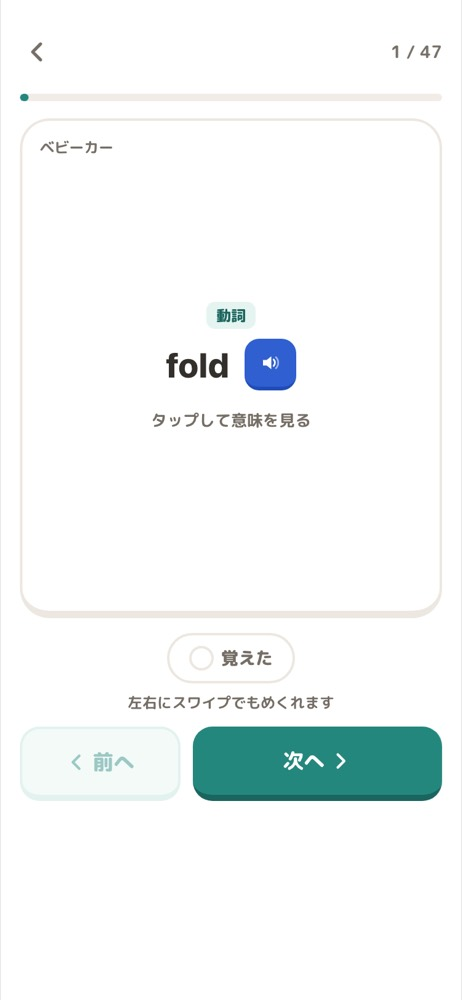
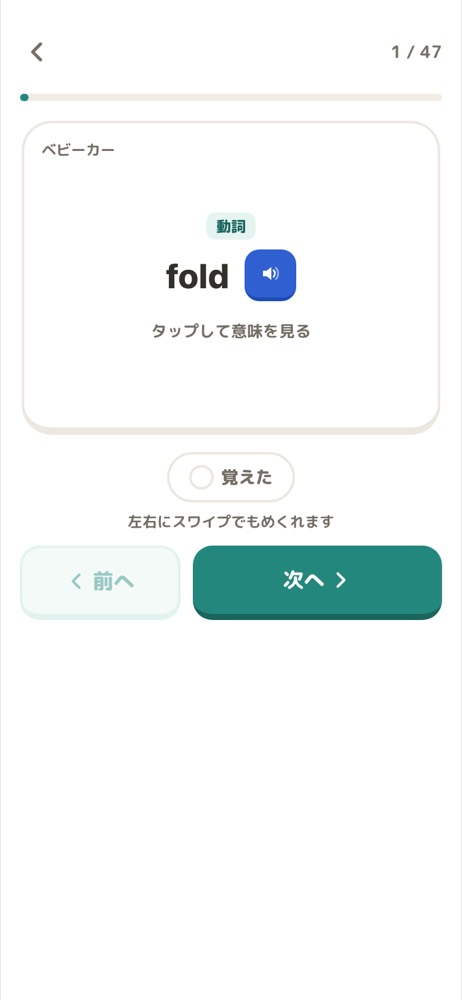
フラッシュカードを単語カードくらいの横長サイズにする

diff --git a/index.html b/index.html
@@ -249,14 +249,15 @@
   .progress-label{ flex:1; text-align:right; font-size:14px; color:var(--sub); font-weight:700; }
   .flash-dots{ height:6px; border-radius:3px; background:var(--track); overflow:hidden; margin:0 0 14px; }
   .flash-dots-fill{ height:100%; background:var(--fc-tone, var(--accent)); border-radius:3px; transition:width .25s ease-out; }
-  .flashcard-wrap{ perspective:1200px; margin-bottom:12px; touch-action:pan-y; }
+  /* 紙の単語カードくらいの大きさ(横長)にする。中身が多いときはカードの中でスクロールする */
+  .flashcard-wrap{ perspective:1200px; max-width:340px; margin:16px auto 14px; touch-action:pan-y; }
   .flashcard-slide{ will-change:transform; }
-  .flashcard-inner{ position:relative; height:clamp(300px, 50vh, 430px); transition:transform .45s cubic-bezier(.2,.7,.3,1); transform-style:preserve-3d; cursor:pointer; }
+  .flashcard-inner{ position:relative; aspect-ratio:4 / 3; transition:transform .45s cubic-bezier(.2,.7,.3,1); transform-style:preserve-3d; cursor:pointer; }
   .flashcard-inner.flipped{ transform:rotateY(180deg); }
   .flashcard-face{
     position:absolute; inset:0; backface-visibility:hidden; -webkit-backface-visibility:hidden;
     background:var(--surface); border:2px solid var(--hair); border-bottom-width:6px; border-radius:24px;
-    padding:40px 20px 24px; display:flex; flex-direction:column; text-align:center; overflow-y:auto;
+    padding:34px 16px 16px; display:flex; flex-direction:column; text-align:center; overflow-y:auto;
     -webkit-user-select:none; user-select:none;
   }
   .flashcard-back{ transform:rotateY(180deg); }
